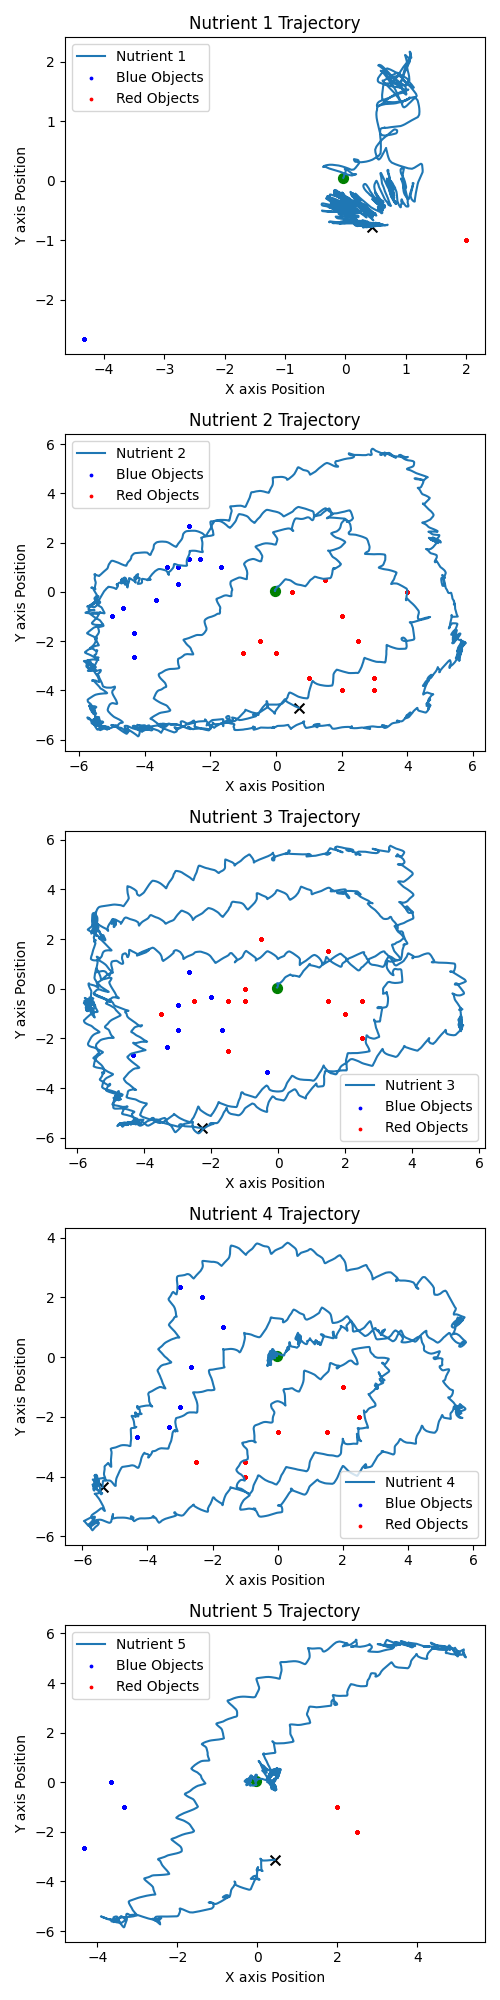
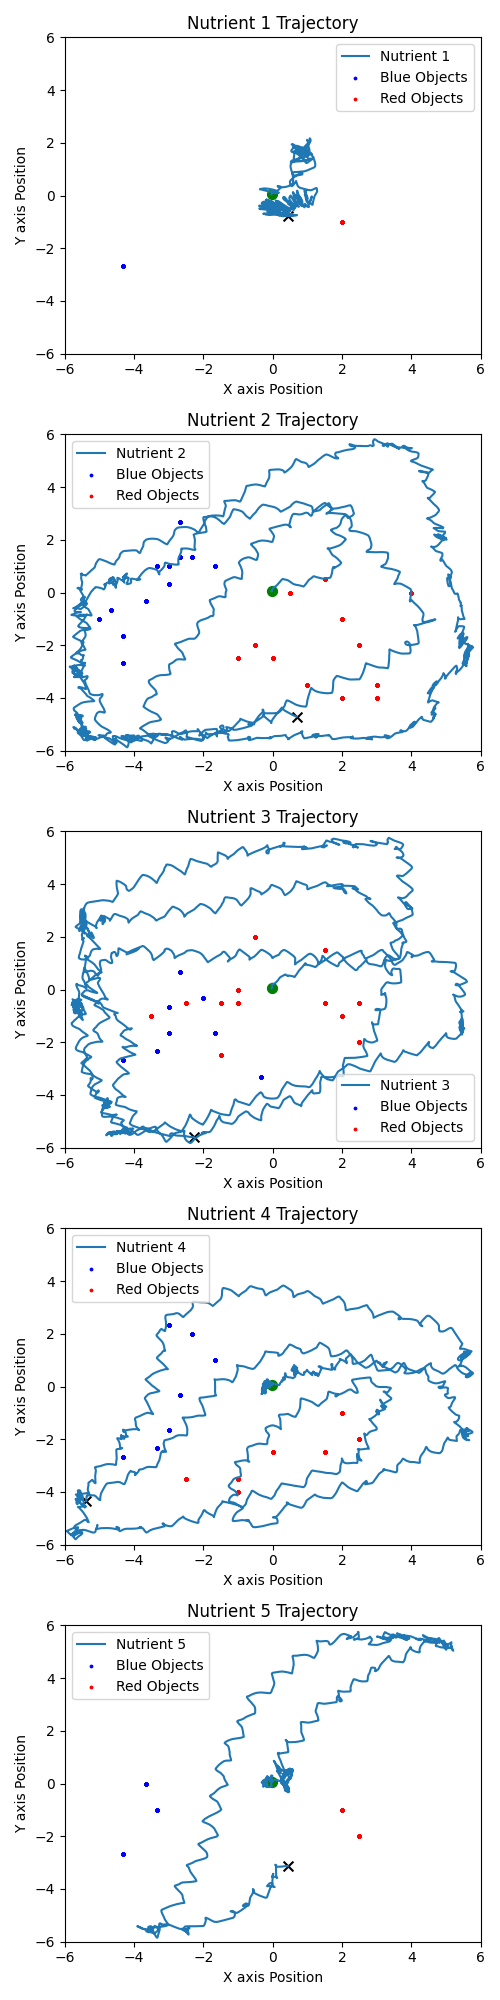
edit: set y and x limit for position plots

diff --git a/src/hrd/plot_position.py b/src/hrd/plot_position.py
@@ -69,6 +69,8 @@ if __name__ == "__main__":
         ax[i].set_title(f'Nutrient {i+1} Trajectory')
         ax[i].set_xlabel('X axis Position')
         ax[i].set_ylabel('Y axis Position')
+        ax[i].set_xlim(-6, 6)
+        ax[i].set_ylim(-6, 6)
         
         ax[i].scatter(blue_avg[i, :, 0], blue_avg[i, :, 1], c='blue', label='Blue Objects', s=3)
         ax[i].scatter(red_avg[i, :, 0], red_avg[i, :, 1], c='red', label='Red Objects', s=3)
